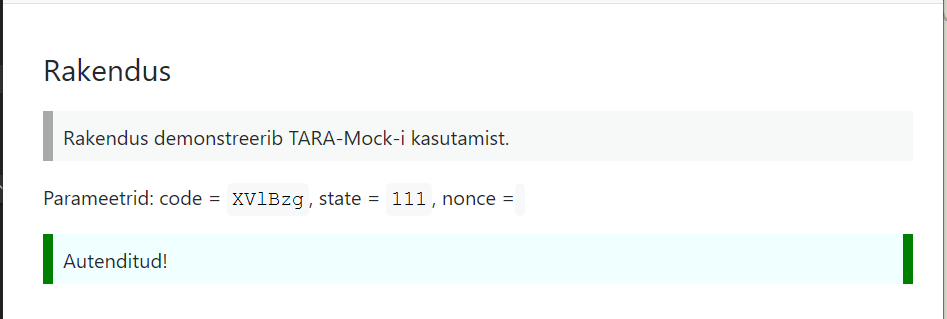
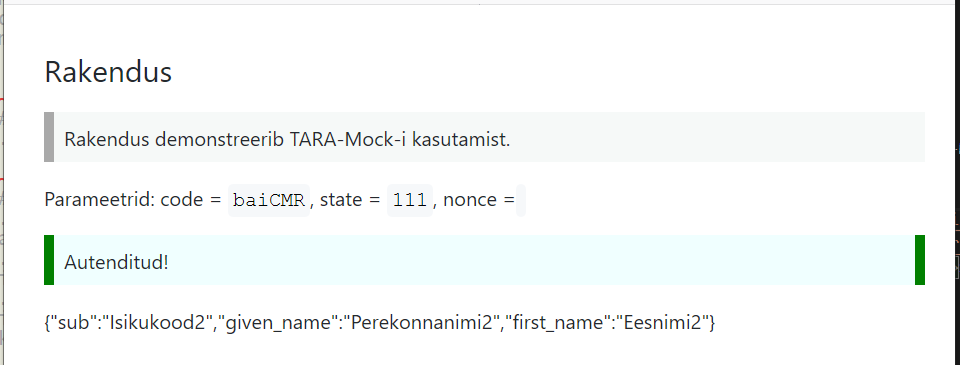
+

diff --git a/client/templates/autenditud.html b/client/templates/autenditud.html
@@ -29,6 +29,7 @@
     <div class="success">
       Autenditud!
     </div>
+    <div>{{ .Isikuandmed }}</div>
   </body>
 
 </html>

diff --git a/client/main.go b/client/main.go
@@ -11,12 +11,12 @@ import (
 
 var redirectURI string
 
-// PassParams koondab väärtusi, mida kasutatakse identsustõendi päringu
-// koostamiseks ja lehele "Autenditud" edastamiseks.
+// PassParams koondab lehele "Autenditud" edastatavaid väärtusi.
 type PassParams struct {
-	Code  string
-	State string
-	Nonce string
+	Code        string
+	State       string
+	Nonce       string
+	Isikuandmed string
 }
 
 func main() {
@@ -84,16 +84,16 @@ func finalize(w http.ResponseWriter, r *http.Request) {
 	ps.State = getP("state", r)
 	ps.Nonce = getP("nonce", r)
 
-	// TO DO: Päri identsustõend
-	var t string // Identsustõend
-	var ok bool
-	t, ok = getIdentityToken(ps)
-
+	// Päri identsustõend
+	// t []byte - Identsustõend
+	t, ok := getIdentityToken(getP("code", r))
 	if !ok {
 		log.Fatalln("Identsustõendi pärimine ebaõnnestus")
 	}
 
-	fmt.Println("Klient: main: Saadud identsustõend: ", t)
+	fmt.Println("Klient: main: Saadud identsustõend: ", string(t))
+
+	ps.Isikuandmed = string(t)
 
 	w.Header().Set("Content-Type", "text/html; charset=utf-8")
 	// Loe lehe "Autenditud" vmall, täida ja saada sirvikusse.

diff --git a/client/gettoken.go b/client/gettoken.go
@@ -11,7 +11,7 @@ import (
 )
 
 // getIdentityToken pärib TARA-Mock-lt identsustõendi.
-func getIdentityToken(ps PassParams) (string, bool) {
+func getIdentityToken(vk string) ([]byte, bool) {
 
 	// Lae kliendi võti ja sert
 	cert, err := tls.LoadX509KeyPair(
@@ -45,7 +45,7 @@ func getIdentityToken(ps PassParams) (string, bool) {
 	// Koosta POST päringu keha
 	requestBody, err := json.Marshal(map[string]string{
 		"grant_type":   "authorization_code",
-		"code":         ps.Code,
+		"code":         vk,
 		"redirect_uri": redirectURI,
 	})
 	if err != nil {
@@ -63,13 +63,11 @@ func getIdentityToken(ps PassParams) (string, bool) {
 	}
 	defer resp.Body.Close()
 
+	// Loeb päringu keha, kujule []byte
 	body, err := ioutil.ReadAll(resp.Body)
 	if err != nil {
 		log.Fatalln(err)
 	}
 
-	// Väljasta saadud vastus konsoolile
-	// log.Println("getToken: Saadud: ", string(body))
-
-	return string(body), true
+	return body, true
 }

diff --git a/service/main.go b/service/main.go
@@ -41,9 +41,9 @@ type IdentityToken struct {
 // IDTokenReqBody on vastuvõetava identsustõendi päringu keha
 // struktuur.
 type IDTokenReqBody struct {
-	GrantType  string `json:"grant_type"`
-	Code       string `json:"code"`
-	RequestURI string `json:"request_uri"`
+	GrantType  string      `json:"grant_type"`
+	Code       volituskood `json:"code"`
+	RequestURI string      `json:"request_uri"`
 }
 
 func main() {
@@ -200,7 +200,7 @@ func SendIdentityToken(w http.ResponseWriter, r *http.Request) {
 	// b.Code
 	// idToendid[b.Code]
 	// idtAndmed
-	v, ok := idToendid[b.Code]
+	v, ok := idToendid[msg.Code]
 	if !ok {
 		http.Error(w, "Identsustõend ei eksisteeri", 404)
 		return

diff --git a/README.md b/README.md
@@ -36,36 +36,25 @@ TARA-Mock on tehtud rida lihtsustusi ja jäetud ära kontrolle:
 - identsustõendi väljastamisel `redirect_uri` ei kontrollita; identsustõend väljastatakse ainult volituskoodi alusel
 - identsustõendi väljastamisel ei kontrollita, kas tõend on aegunud
 
-## Kaitsed
+## Serdid
 
 TARA-Mock töötab HTTPS-ga, rakendatakse TLS kliendi autentimist.
 
+Genereeri ja paigalda TARA-Mock HTTPS serveri serdid. Sertide genereerimise näiteskript on failis `keys/genkeys.sh`.
+
+Kui kasutad kliendi näiterakendust, siis peavad ka sellel olema serdid. 
+
 ## TARA-Mock
 
-TARA-Mock töötab pordil 8080.
+TARA-Mock töötab pordil 8080. Paigalda TARA-Mock sobivasse masinasse. TARA-Mock on kasutatav ka oma masinas (`localhost`). Otspunktid:
 
-**Seadistamine**:
-
-Genereeri ja sea TARA-Mock HTTPS serveri serdid. Sertide genereerimise näiteskript on failis `keys/genkeys.sh`.
-
-Etteantud identiteedid on koodi sissekirjutatud TARA-Mock koodi. Muuda identiteedid oma vajadustele vastavaks.
-
-**Paigaldamine**:
-
-Paigalda TARA-Mock sobivasse masinasse. TARA-Mock on kasutatav ka oma masinas (`localhost`).
-
-**Otspunktid**:
 - `/health` - elutukse
 - `/` - avaleht teabega TARA-Makett kohta
 - `/oidc/authorize` - autentimisele suunamine
 - `/token` - identsustõendi väljastamine
 - `/oidc/jwks` - identsustõendi avalik võti
 
-Nt TARA-Mock kasutamisel oma masinas:
-
-`https://localhost:8080/oidc/token` - identsustõendi väljastamine
-
-**Käivitamine**:
+Nt TARA-Mock kasutamisel oma masinas: `https://localhost:8080/health`. Käivitamine:
 
 ```
 cd service
@@ -74,19 +63,20 @@ go run .
 
 ## Klientrakenduse näidis
 
-**Otspunktid**:
+Klientrakenduse näidis töötab lokaalses masinas, pordil 8081. Otspunktid:
+
 - `/health` - elutukse
 - `/` - avaleht; kasutaja saab sealt minna TARA-Mock-i autentima
 - `/login` - kasutaja suunamine TARA-Mock-i autentima
 - `/return` - autentimiselt tagasi suunatud kasutaja vastuvõtmine, identsustõendi pärimine TARA-Mock-st ja sisselogimise lõpuleviimine 
 
-**Seadistamine**:
-
-Klientrakenduse näidis töötab lokaalses masinas, pordil 8081. Genereeri ja sea TARA-Mock HTTPS serveri serdid. Sertide genereerimise näiteskript on failis `keys/genkeys.sh`.
-
-**Käivitamine**:
+Käivitamine:
 
 ```
 cd service
 go run .
 ```
+## Teostamata
+
+- identsustõendi allkirjastamine
+- väiksemaid täiendusi, vastavusse viimiseks TARA-s kasutatavale OpenID Connect protollile.
